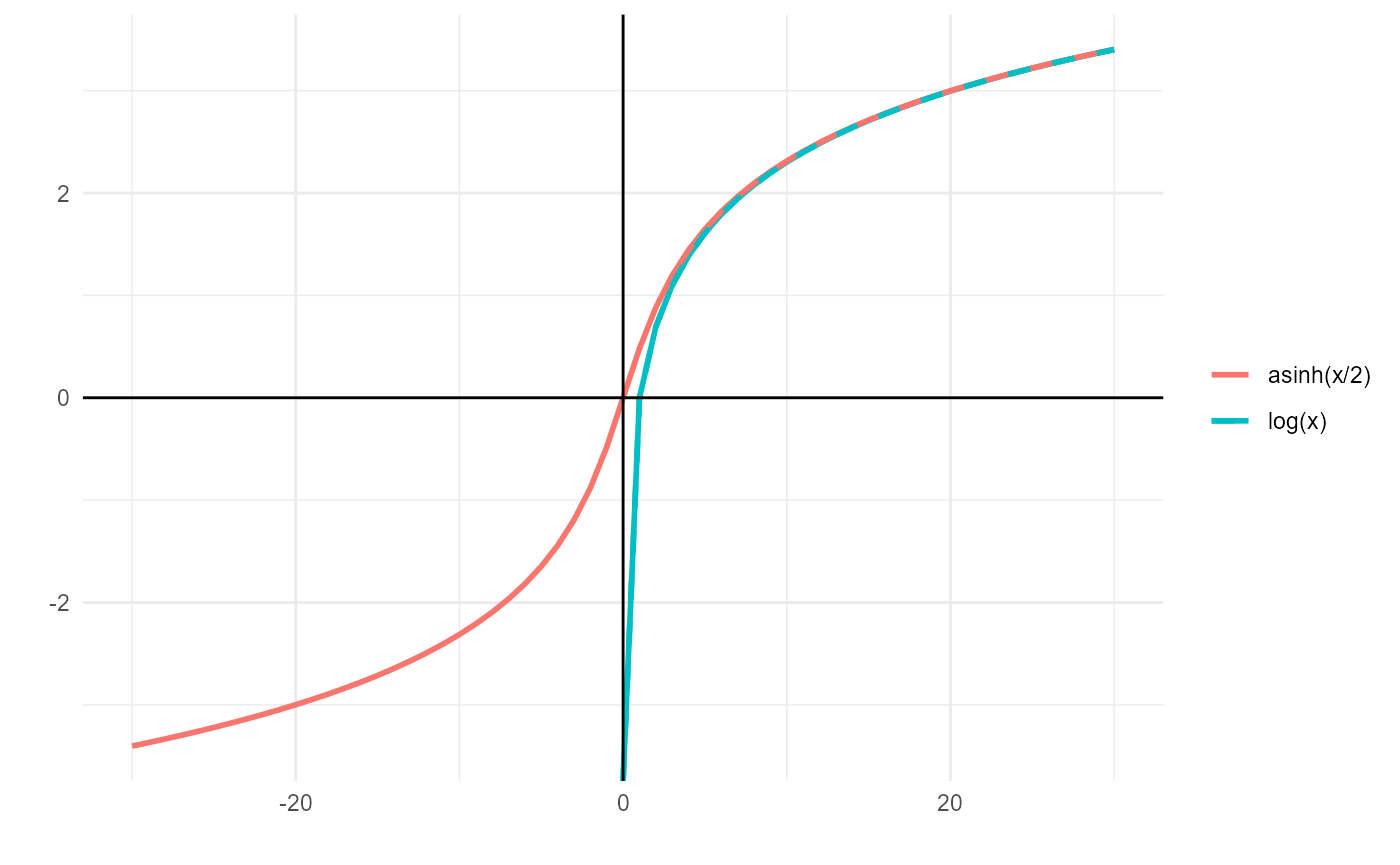
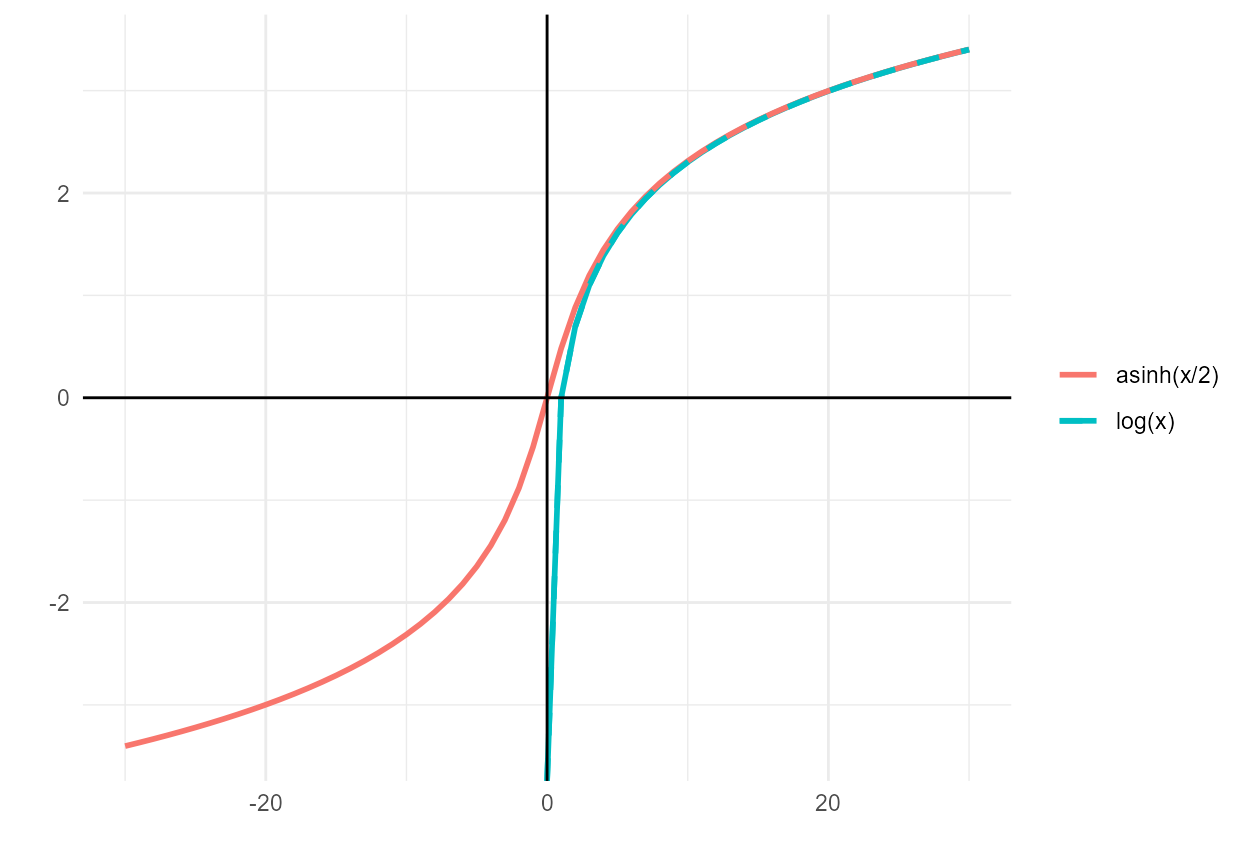
additional documentation - statistical model

diff --git a/docs/articles/statistical_model.html b/docs/articles/statistical_model.html
@@ -100,7 +100,7 @@ Prediction</h1>
 <a href="mailto:mrubenson@flowwest.com">Maddee Rubenson</a> &amp; <a href="slewis@flowwest.com">Skyler Lewis</a>
 </h4>
             
-            <h4 data-toc-skip class="date">2024-10-22</h4>
+            <h4 data-toc-skip class="date">2024-10-23</h4>
       
 
       <div class="hidden name"><code>statistical_model.Rmd</code></div>
@@ -110,12 +110,22 @@ Prediction</h1>
     
     
 <div class="section level2">
-<h2 id="section"></h2>
+<h2 id="introduction">Introduction<a class="anchor" aria-label="anchor" href="#introduction"></a>
+</h2>
 <p>We are currently developing and refining a statistical model to
 predict flow-to-suitable-habitat-area relationships for stream reaches
 in the Sacramento-San Joaquin Basin, based on a variety of
 widely-available geospatial and hydrologic variables. Predictor variable
 data collection is detailed in the <a href="predictor_variables.html">Predictor Variables</a> article.</p>
+<p>This statistical model method was developed for predicting rearing
+habitat area versus flow at the <code>comid</code> scale.</p>
+<p>It is also applied for spawning habitat area, given training data
+generated using different habitat suitability indices (see <a href="habitat_training_data.html">Habitat Training Data</a>), with
+additional post-model filters required to eliminate areas that are
+non-suitable due to substrate (see <a href="spawning_extents.html">Spawning Extents</a>).</p>
+<p>Raw outputs from this method are then ready to be scaled based on
+hydrology and duration requirements (see <a href="duration_analysis.html">Duration Analysis</a>) and/or aggregated
+at the river or watershed level (see <a href="watershed_aggregation.html">Watershed Aggregation</a>).</p>
 </div>
 <div class="section level2">
 <h2 id="model-development">Model Development<a class="anchor" aria-label="anchor" href="#model-development"></a>
@@ -201,16 +211,19 @@ to 26 miles, with a mean length of 1.2 miles. Weighting the estimate by
 linear ft allows longer reaches to have greater influence on the model
 and makes the somewhat arbitrary <code>comid</code> delineations less
 relevant.</p>
-<pre><code><span><span class="co">#&gt; Warning in log(x): NaNs produced</span></span>
-<span><span class="co">#&gt; Warning in log(x): NaNs produced</span></span>
-<span><span class="co">#&gt; Warning: Removed 30 rows containing missing values or values outside the scale range</span></span>
-<span><span class="co">#&gt; (`geom_line()`).</span></span>
-<span><span class="co">#&gt; Removed 30 rows containing missing values or values outside the scale range</span></span>
-<span><span class="co">#&gt; (`geom_line()`).</span></span></code></pre>
-<p><img src="figures/statistical-model-asinh-transform-1.png" width="700"></p>
+<p><img src="figures/statistical-model-asinh-transform-1.png" width="624"></p>
 </div>
 <div class="section level3">
-<h3 id="three-model-versions-tested">Three Model Versions Tested<a class="anchor" aria-label="anchor" href="#three-model-versions-tested"></a>
+<h3 id="flow-variable">Flow Variable<a class="anchor" aria-label="anchor" href="#flow-variable"></a>
+</h3>
+<p>Training flow data are resampled to a regular sequence of flows that
+is evenly spaced on a logarithmic axis:</p>
+<div class="sourceCode" id="cb1"><pre class="downlit sourceCode r">
+<code class="sourceCode R"><span><span class="va">interp_flows</span> <span class="op">&lt;-</span> <span class="fu">habistat</span><span class="fu">::</span><span class="fu"><a href="../reference/seq_log10.html">seq_log10</a></span><span class="op">(</span><span class="fl">50</span>, <span class="fl">15000</span>, <span class="fl">0.05</span>, snap<span class="op">=</span><span class="fl">100</span><span class="op">)</span></span></code></pre></div>
+<p><img src="figures/statistical-model-interp_flows-1.png" width="624"></p>
+</div>
+<div class="section level3">
+<h3 id="model-versions-tested">Model Versions Tested<a class="anchor" aria-label="anchor" href="#model-versions-tested"></a>
 </h3>
 <p>Two forms of the model were tested, discussed in sequence in the
 following sections.</p>
@@ -293,19 +306,36 @@ regression</p>
 flow-to-suitable-area curves that are more strongly proportional to the
 size of the river.</p>
 </div>
+<div class="section level4">
+<h4 id="ensemble-model">Ensemble Model<a class="anchor" aria-label="anchor" href="#ensemble-model"></a>
+</h4>
+<p>The ensemble model is the average of the output of the Version 1 and
+Version 2 models for each unique combination of <code>comid</code> and
+flow.</p>
+</div>
 </div>
 </div>
 <div class="section level2">
 <h2 id="exploratory-linear-regression">Exploratory Linear Regression<a class="anchor" aria-label="anchor" href="#exploratory-linear-regression"></a>
 </h2>
-<p><mark>TODO: Expand, just show some images of initial exploration,
-doesn’t need to be the final version.</mark></p>
-<ul>
-<li><p>Doesn’t produce a great fit, but useful for exploring effects of
-predictor variables</p></li>
-<li><p>Collinearity between variables is not addressed as this is only
-exploratory</p></li>
-</ul>
+<p>Linear regression was useful for exploring the effects of predictor
+variables and testing different model forms. However, the collinearity
+between variables and the limitations on the functional shape of
+relationships were limitations.</p>
+<table class="table">
+<colgroup>
+<col width="50%">
+<col width="50%">
+</colgroup>
+<thead><tr class="header">
+<th>Model Version 1: Scale-Dependent</th>
+<th>Model Version 2: Scale-Normalized</th>
+</tr></thead>
+<tbody><tr class="odd">
+<td><img src="figures/lm-sd2-coeffs-1.png" style="width:100.0%"></td>
+<td><img src="figures/lm-si2-coeffs-1.png" style="width:100.0%"></td>
+</tr></tbody>
+</table>
 </div>
 <div class="section level2">
 <h2 id="random-forest-regression-model">Random Forest Regression Model<a class="anchor" aria-label="anchor" href="#random-forest-regression-model"></a>
@@ -315,27 +345,55 @@ alternative to linear regression. The model specifications are
 essentially identical to the linear regression formulations previously
 discussed. Unlike linear regression, there is no constraint on the
 functional form of the flow-to-habitat relationship or the effects of
-predictor variables.</p>
-<div class="section level3">
-<h3 id="train-test-split">Train / Test Split<a class="anchor" aria-label="anchor" href="#train-test-split"></a>
-</h3>
-<p><mark>TODO: details here</mark></p>
-</div>
-<div class="section level3">
-<h3 id="feature-selection">Feature Selection<a class="anchor" aria-label="anchor" href="#feature-selection"></a>
-</h3>
-<p><mark>TODO: details here</mark></p>
-</div>
-<div class="section level3">
-<h3 id="parameter-tuning-cross-validation">Parameter Tuning (Cross-Validation)<a class="anchor" aria-label="anchor" href="#parameter-tuning-cross-validation"></a>
-</h3>
-<p><mark>TODO: details here</mark></p>
-</div>
-<div class="section level3">
-<h3 id="inverse-transformation">Inverse Transformation<a class="anchor" aria-label="anchor" href="#inverse-transformation"></a>
-</h3>
-<p><mark>TODO: details here</mark></p>
-</div>
+predictor variables. Random forest models are fit using the
+<code>ranger</code> package via the <code>tidymodels</code>
+framework.</p>
+<ul>
+<li><p><strong>Train/Test Split</strong>: Flowlines
+(<code>comid</code>s) and their associated training data are split into
+training and testing datasets at a 75% training/25% testing random
+split, stratified by river and hydrologic class.</p></li>
+<li><p><strong>IHS Transformation</strong>: As described in the section
+above, all continuous numeric variables are transformed using the
+transformation
+<math display="inline" xmlns="http://www.w3.org/1998/Math/MathML"><semantics><mrow><mi>x</mi><mi>′</mi><mo>=</mo><mtext mathvariant="normal">asinh</mtext><mrow><mo stretchy="true" form="prefix">(</mo><mn>100</mn><mo>⋅</mo><mi>x</mi><mi>/</mi><mn>2</mn><mo stretchy="true" form="postfix">)</mo></mrow></mrow><annotation encoding="application/x-tex">x' = \text{asinh}(100 \cdot x / 2)</annotation></semantics></math>.
+Variables that represent proportions or ratios are not transformed. The
+response variable is also transformed.</p></li>
+<li><p><strong>DA/MAP Normalization</strong>: For the “scale-normalized”
+model, all variables are divided by the
+<math display="inline" xmlns="http://www.w3.org/1998/Math/MathML"><semantics><mrow><mrow><mi>D</mi><mi>A</mi></mrow><mo>*</mo><mrow><mi>M</mi><mi>A</mi><mi>P</mi></mrow></mrow><annotation encoding="application/x-tex">{DA}*{MAP}</annotation></semantics></math>
+scaling factor described above.</p></li>
+<li><p><strong>Interaction</strong>: Any predictor variables included in
+the model are also included as interactions with flow:
+<math display="inline" xmlns="http://www.w3.org/1998/Math/MathML"><semantics><mrow><mo stretchy="true" form="prefix">(</mo><mi>x</mi><mi>′</mi><mo>⋅</mo><mi>Q</mi><mo stretchy="true" form="postfix">)</mo></mrow><annotation encoding="application/x-tex">(x' \cdot Q)</annotation></semantics></math>.</p></li>
+<li><p><strong>Feature Selection</strong>: The training dataset is used
+for feature selection, i.e., identifying the set of predictor variables
+to be used in the prediction. We iteratively test versions of the model
+with and without each predictor variable. Predictor variables selected
+for inclusion are those that improve model fit (decrease RMSE) when they
+are included relative to when they are excluded.</p></li>
+<li><p><strong>Parameter Tuning</strong>: Random forest model parameters
+are tuned using 10-fold cross-validation with the training dataset.
+Tuned parameters are the number of trees (<code>trees</code>), number of
+predictors that will be randomly sampled at each split when creating the
+tree models (<code>mtry</code>), and the minimum number of data points
+in a node that are required for the node to be split further
+(<code>min_n</code>).</p></li>
+<li><p><strong>Prediction</strong>: Once a final tuned model has been
+selected, the full dataset of flowlines (<code>comid</code>s) and their
+attributes are input, once for each flow along a a regular log sequence
+of flows matching the <code>interp_flows</code> sequence described
+above. Predictions are run for all <code>comid</code>s; filters are
+applied after the fact.</p></li>
+<li><p><strong>Inverse IHS Transformation</strong>: Transformed
+variables and the final output are reverse-transformed using
+<math display="inline" xmlns="http://www.w3.org/1998/Math/MathML"><semantics><mrow><mi>x</mi><mo>=</mo><mtext mathvariant="normal">sinh</mtext><mrow><mo stretchy="true" form="prefix">(</mo><mi>x</mi><mi>′</mi><mo stretchy="true" form="postfix">)</mo></mrow><mo>⋅</mo><mn>2</mn><mi>/</mi><mn>100</mn></mrow><annotation encoding="application/x-tex">x = \text{sinh}(x') \cdot 2 / 100</annotation></semantics></math>.</p></li>
+<li><p><strong>Inverse DA/MAP Normalization</strong>: For the
+“scale-normalized” model, normalization is reversed by multiplying the
+result by the
+<math display="inline" xmlns="http://www.w3.org/1998/Math/MathML"><semantics><mrow><mrow><mi>D</mi><mi>A</mi></mrow><mo>*</mo><mrow><mi>M</mi><mi>A</mi><mi>P</mi></mrow></mrow><annotation encoding="application/x-tex">{DA}*{MAP}</annotation></semantics></math>
+scaling factor described above.</p></li>
+</ul>
 </div>
 <div class="section level2">
 <h2 id="results">Results<a class="anchor" aria-label="anchor" href="#results"></a>
@@ -348,8 +406,6 @@ predictions will depend on those streams’ similarity to the training
 dataset. As training datasets are currently limited to foothill alluvial
 systems on major tributary streams, only these should be considered
 valid.</p>
-<p><mark>TODO: show results map overview images from the model methods
-comparison script</mark></p>
 </div>
   </div>
 

diff --git a/docs/articles/watershed_aggregation.html b/docs/articles/watershed_aggregation.html
@@ -97,7 +97,7 @@
       <h1 data-toc-skip>Watershed Delineation and Flow Aggregation</h1>
                         <h4 data-toc-skip class="author"><a href="slewis@flowwest.com">Skyler Lewis</a></h4>
             
-            <h4 data-toc-skip class="date">2024-10-22</h4>
+            <h4 data-toc-skip class="date">2024-10-23</h4>
       
 
       <div class="hidden name"><code>watershed_aggregation.Rmd</code></div>

diff --git a/docs/articles/spawning_extents.html b/docs/articles/spawning_extents.html
@@ -97,7 +97,7 @@
       <h1 data-toc-skip>Spawning Extents</h1>
                         <h4 data-toc-skip class="author"><a href="slewis@flowwest.com">Skyler Lewis</a></h4>
             
-            <h4 data-toc-skip class="date">2024-10-22</h4>
+            <h4 data-toc-skip class="date">2024-10-23</h4>
       
 
       <div class="hidden name"><code>spawning_extents.Rmd</code></div>

diff --git a/docs/articles/habitat_training_data.html b/docs/articles/habitat_training_data.html
@@ -99,7 +99,7 @@
 <a href="mailto:mrubenson@flowwest.com">Maddee Rubenson</a> &amp; <a href="slewis@flowwest.com">Skyler Lewis</a>
 </h4>
             
-            <h4 data-toc-skip class="date">2024-10-22</h4>
+            <h4 data-toc-skip class="date">2024-10-23</h4>
       
 
       <div class="hidden name"><code>habitat_training_data.Rmd</code></div>

diff --git a/docs/articles/duration_analysis.html b/docs/articles/duration_analysis.html
@@ -99,7 +99,7 @@
 <a href="mailto:mrubenson@flowwest.com">Maddee Rubenson</a> &amp; <a href="slewis@flowwest.com">Skyler Lewis</a>
 </h4>
             
-            <h4 data-toc-skip class="date">2024-10-22</h4>
+            <h4 data-toc-skip class="date">2024-10-23</h4>
       
 
       <div class="hidden name"><code>duration_analysis.Rmd</code></div>

diff --git a/docs/articles/model_overview.html b/docs/articles/model_overview.html
@@ -99,7 +99,7 @@
 <a href="mailto:mrubenson@flowwest.com">Maddee Rubenson</a> &amp; <a href="slewis@flowwest.com">Skyler Lewis</a>
 </h4>
             
-            <h4 data-toc-skip class="date">2024-10-22</h4>
+            <h4 data-toc-skip class="date">2024-10-23</h4>
       
 
       <div class="hidden name"><code>model_overview.Rmd</code></div>
